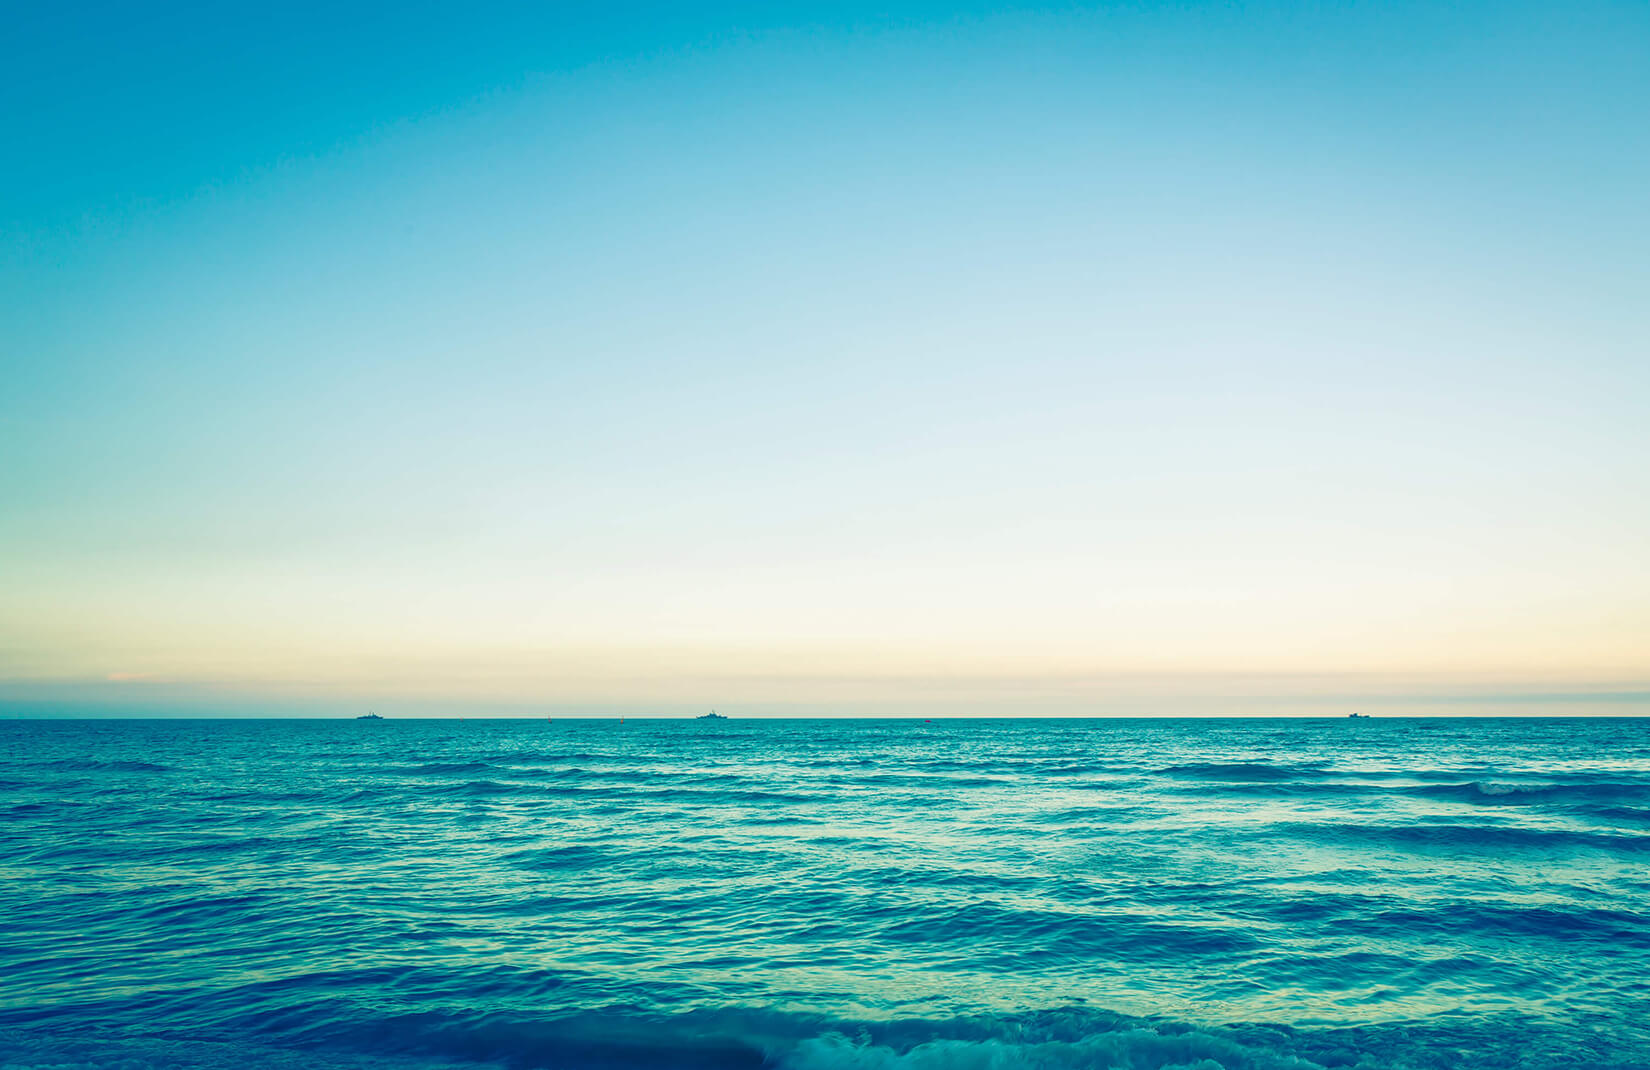
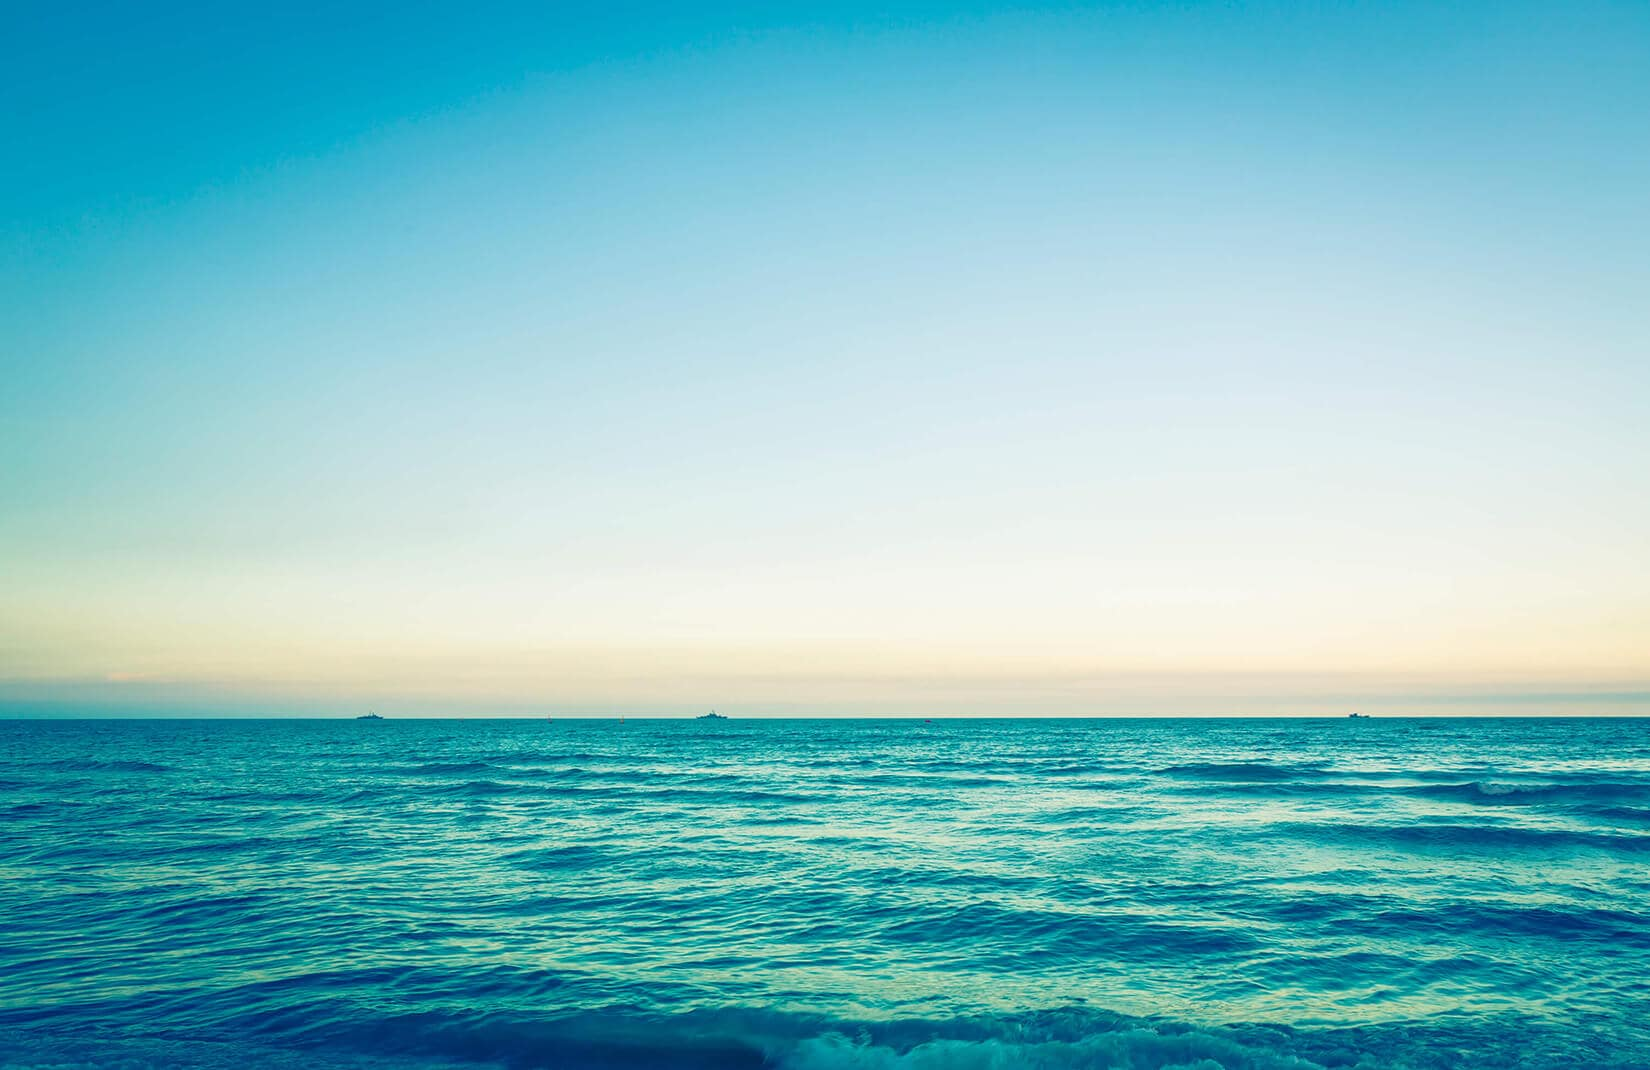
optimised images

diff --git a/index.html b/index.html
@@ -69,6 +69,13 @@
                         So you can know which posts are the most popular.
                     </p>
                 </div>
+                <div class="card wow animate__fadeInUp" data-wow-duration="1s">
+                    <img src="assets/clock.jpg" class="card-img">
+                    <h2 class="card-heading">Different pages with other content</h2>
+                    <p class="card-body">
+                        Timestamps are already implemented server-side and would only need frontend work.
+                    </p>
+                </div>
             </div>
         </section>
         <footer>I'm the footer</footer>
